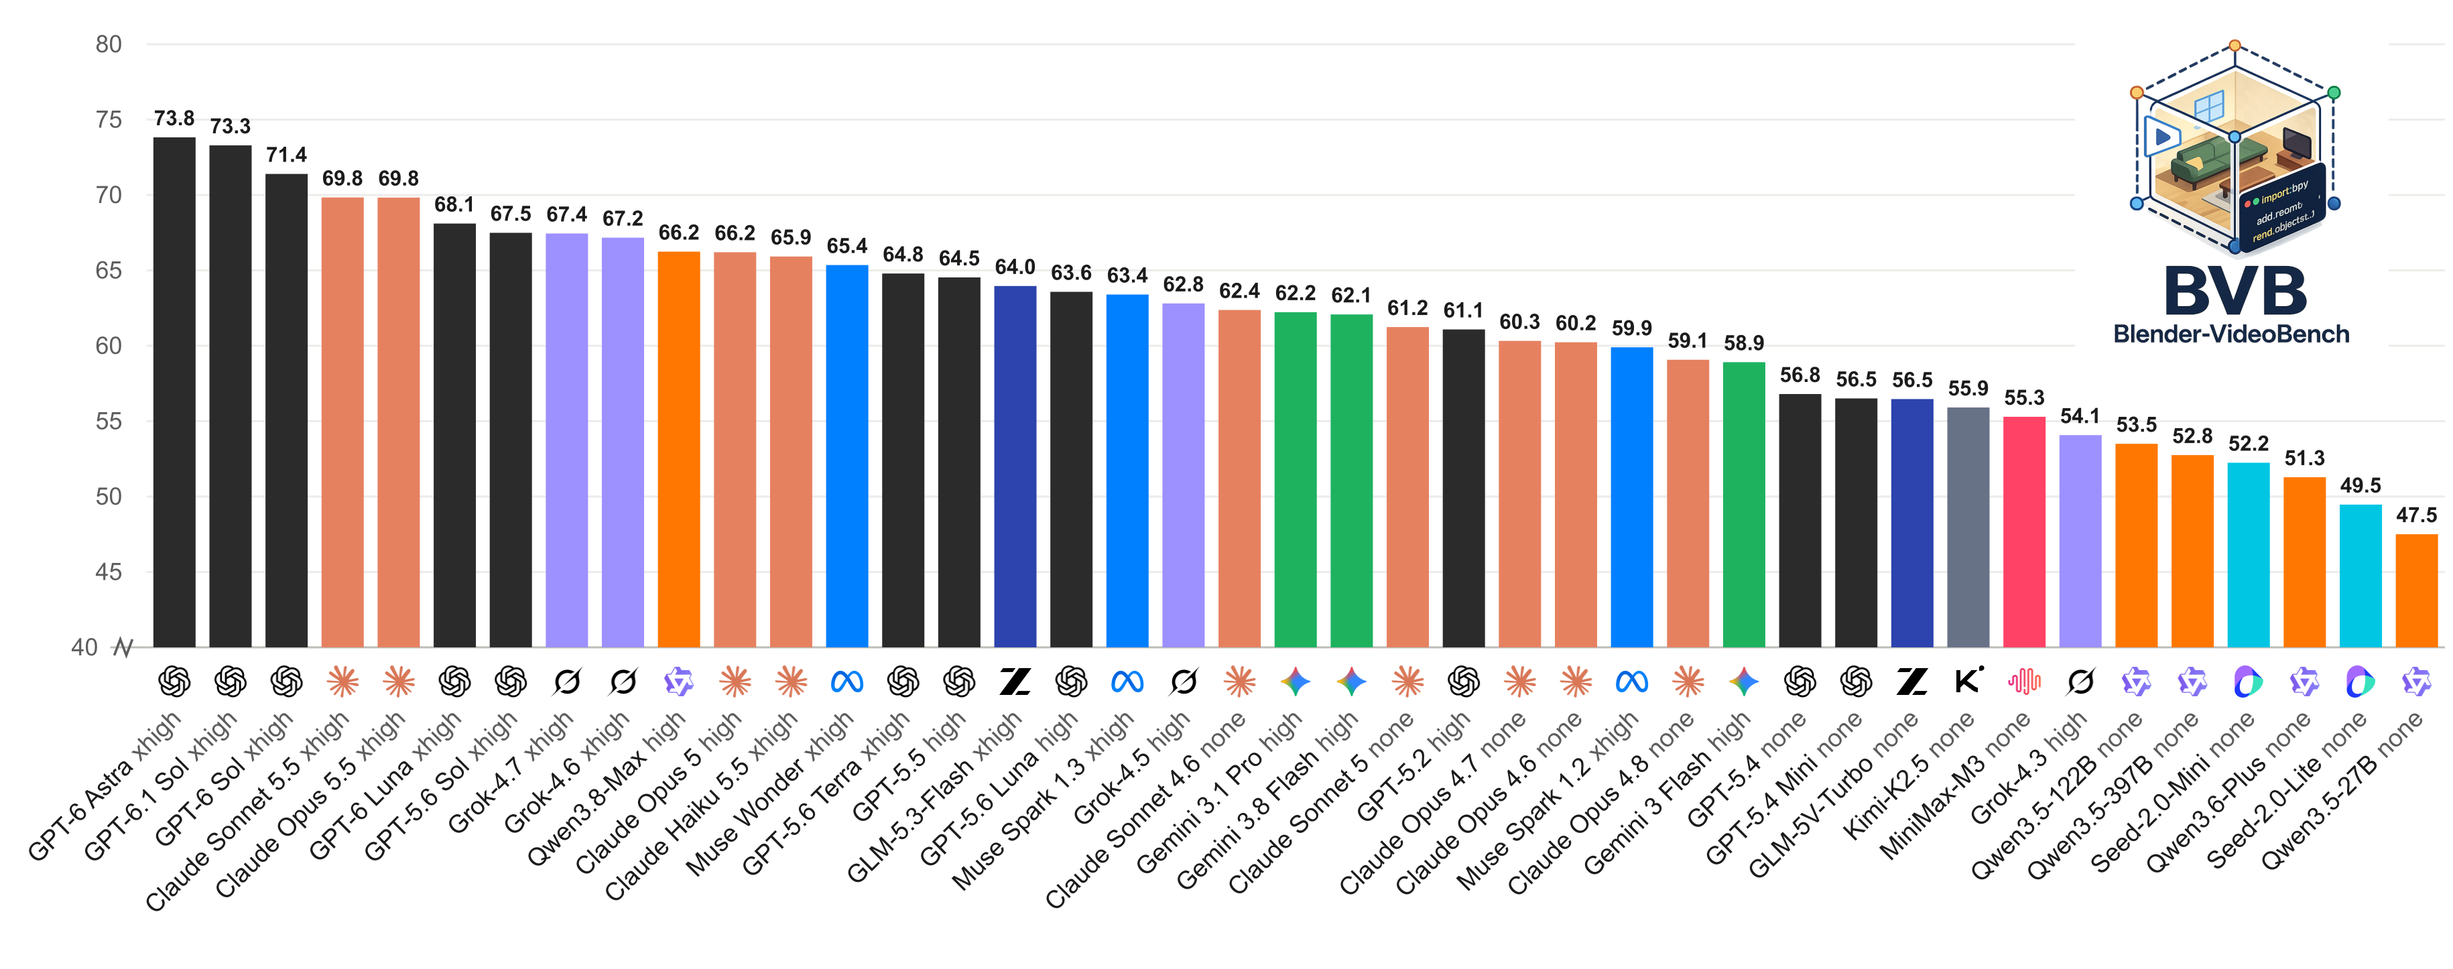
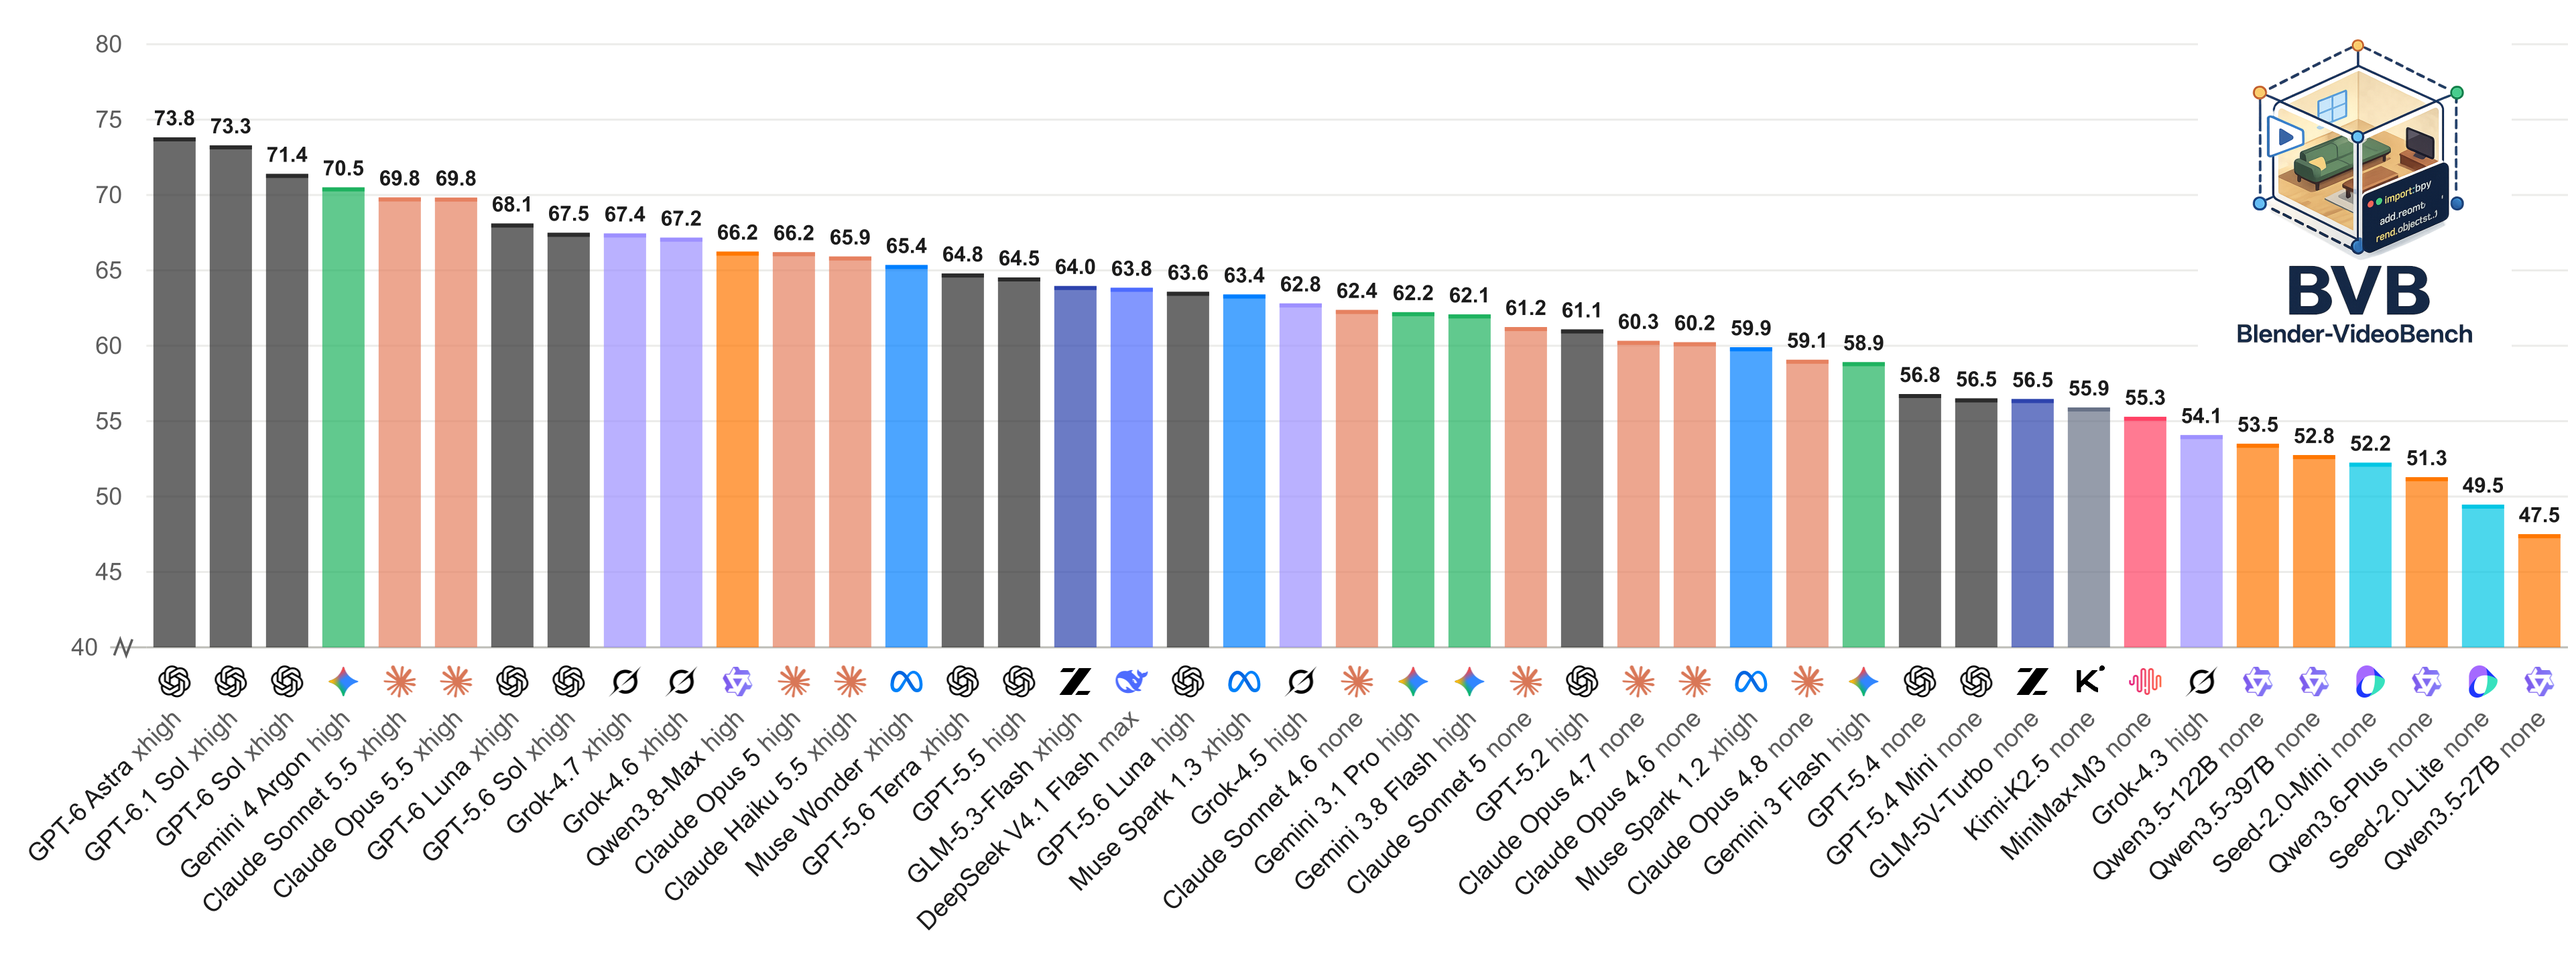
Refresh README leaderboard with Gemini 4 and DeepSeek results

diff --git a/README.md b/README.md
@@ -11,7 +11,7 @@
 
 <p align="center">
   <a href="https://yoloytang.me/BVB/#leaderboard">
-    <img src="assets/bvb-leaderboard.png?v=fd9c0992dfd2" alt="BVB Overall leaderboard: best configuration per model" width="1200">
+    <img src="assets/bvb-leaderboard.png?v=11871a12d7e0" alt="BVB Overall leaderboard: best configuration per model" width="1200">
   </a>
 </p>
 
